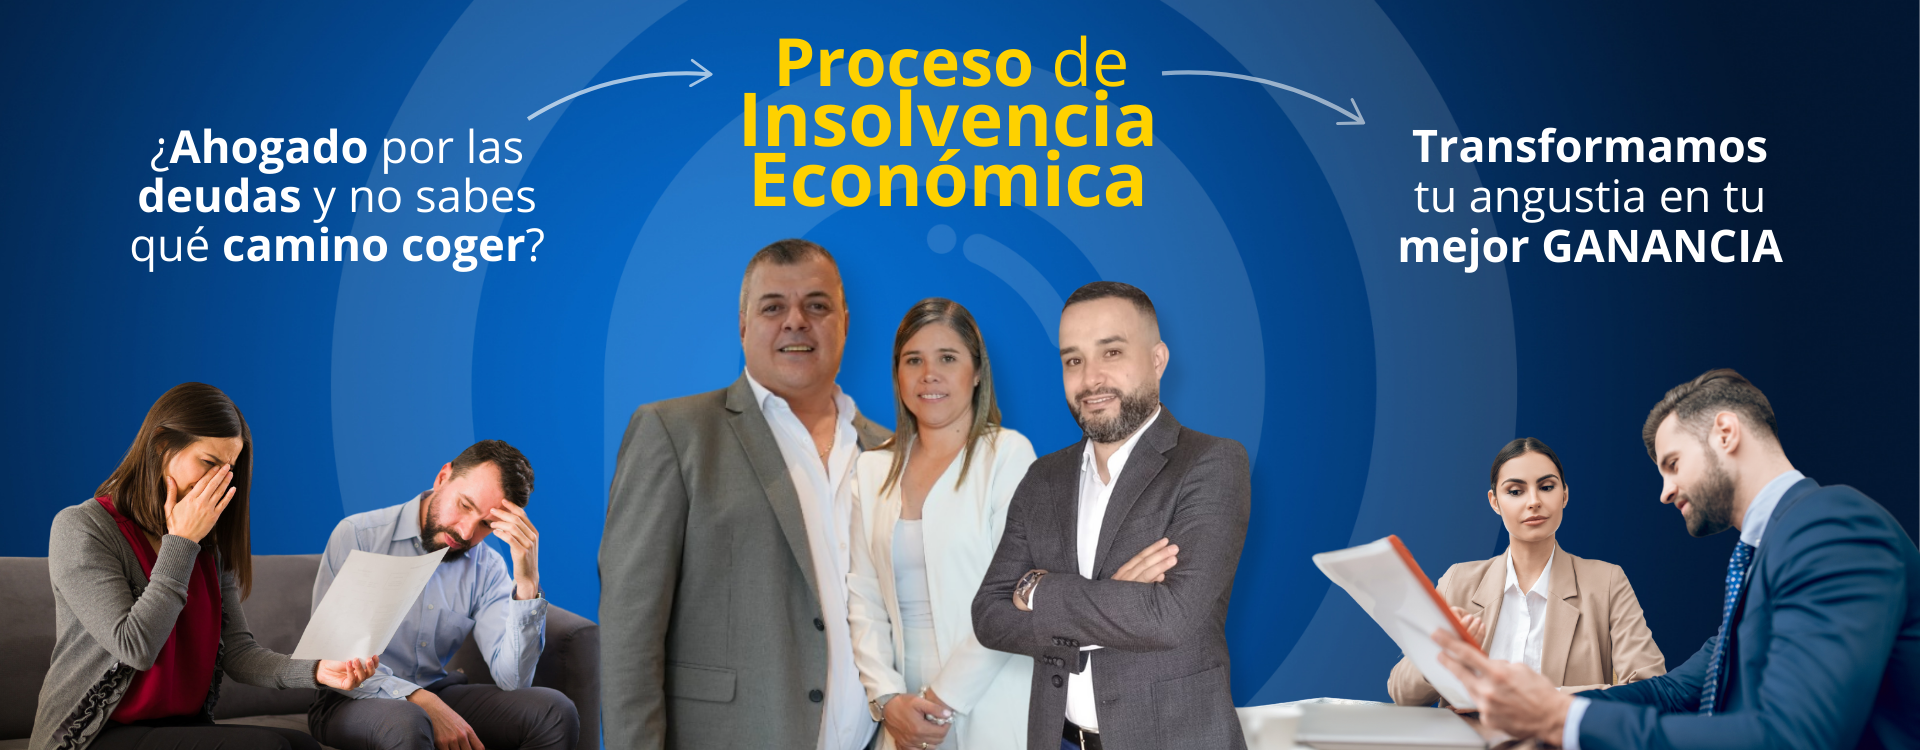
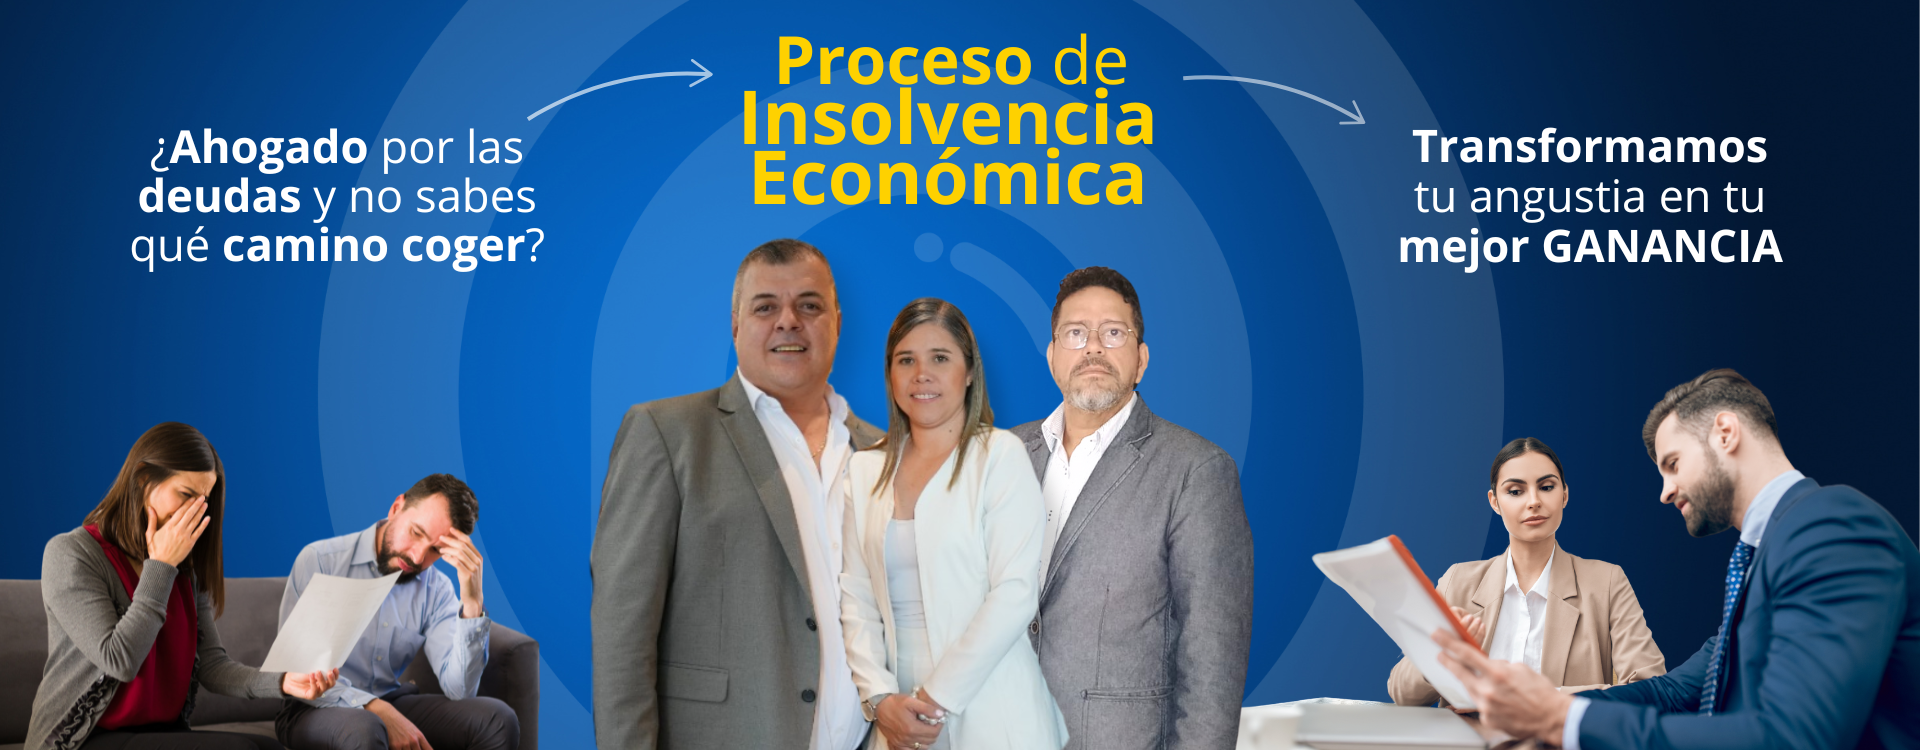
Team without humberto

diff --git a/apps/common/core/templates/pages/sections/10_team_section.html b/apps/common/core/templates/pages/sections/10_team_section.html
@@ -114,7 +114,7 @@
         </div>
       </div>
 
-      <div
+      <!-- <div
         class="col-lg-3 col-md-4 member"
         data-aos="fade-up"
         data-aos-delay="60"
@@ -133,7 +133,7 @@
           <h4>Humberto Turriago</h4>
           <span>International Legal Analyst</span>
         </div>
-      </div>
+      </div> -->
 
       <div
         class="col-lg-3 col-md-4 member"
